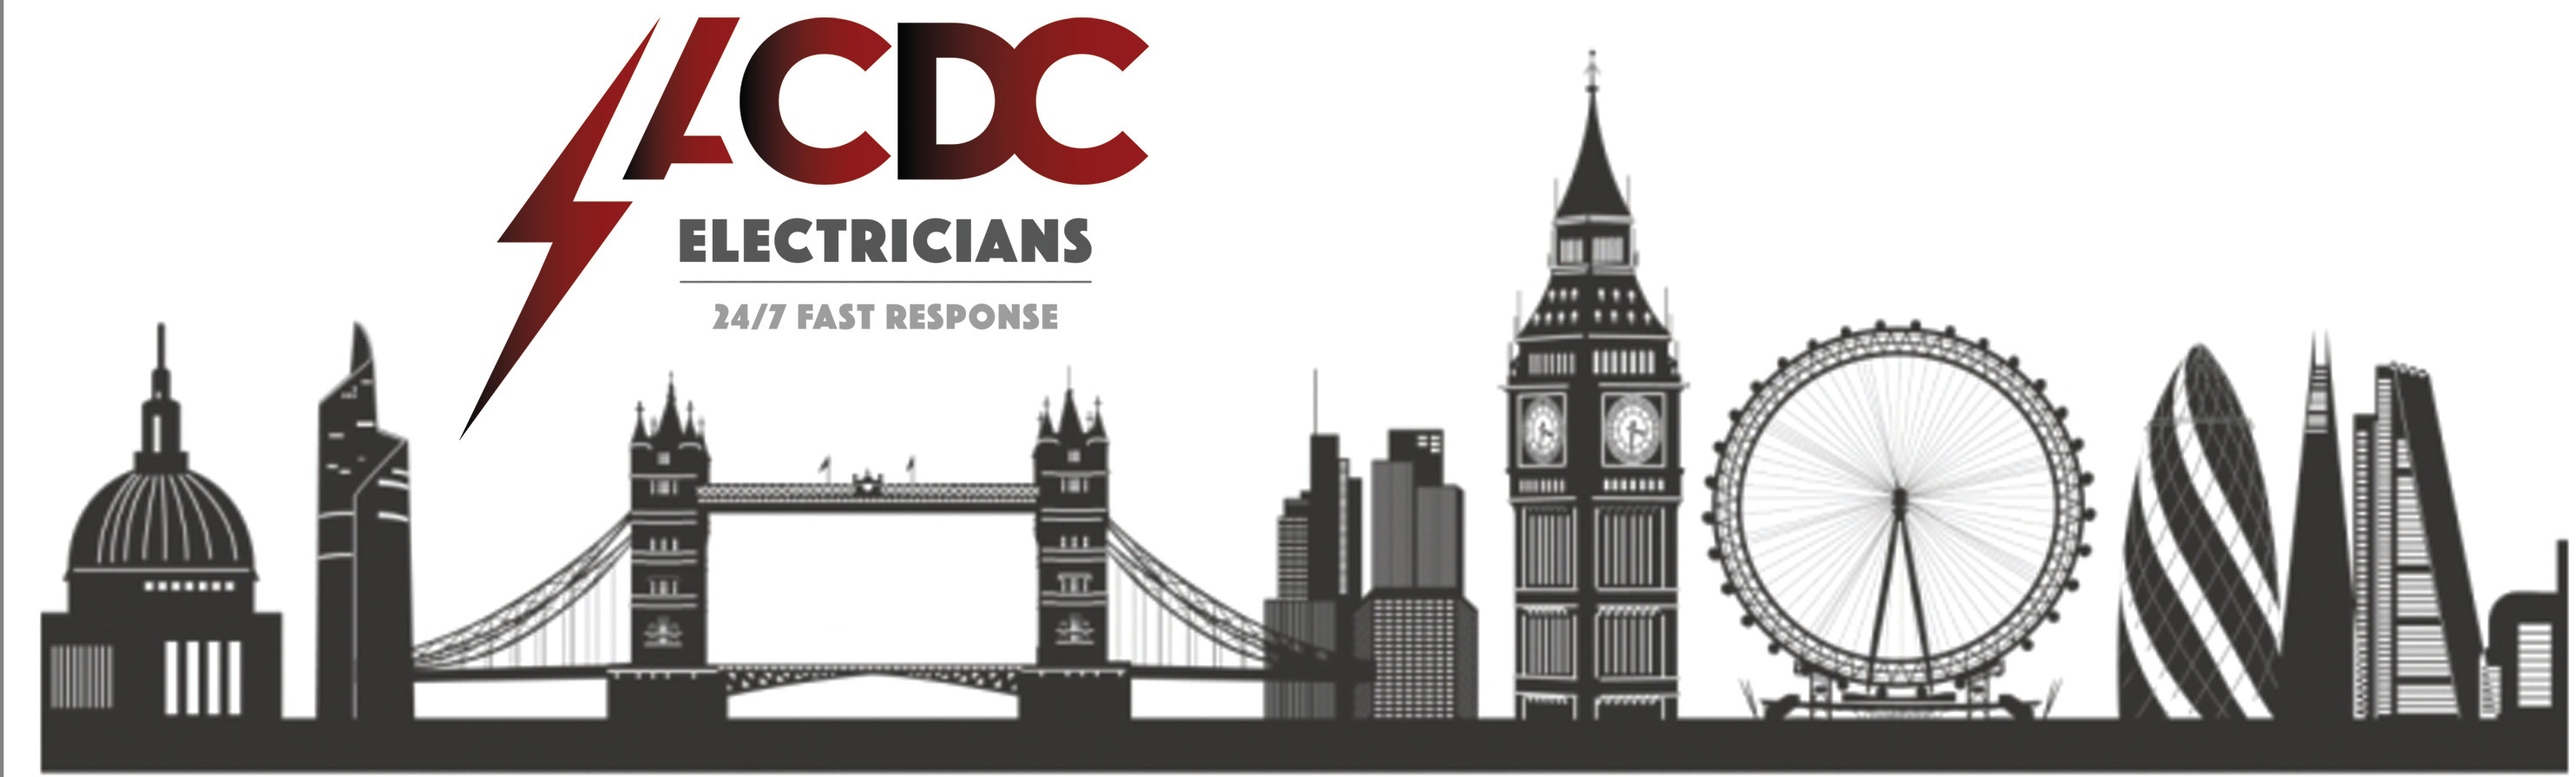
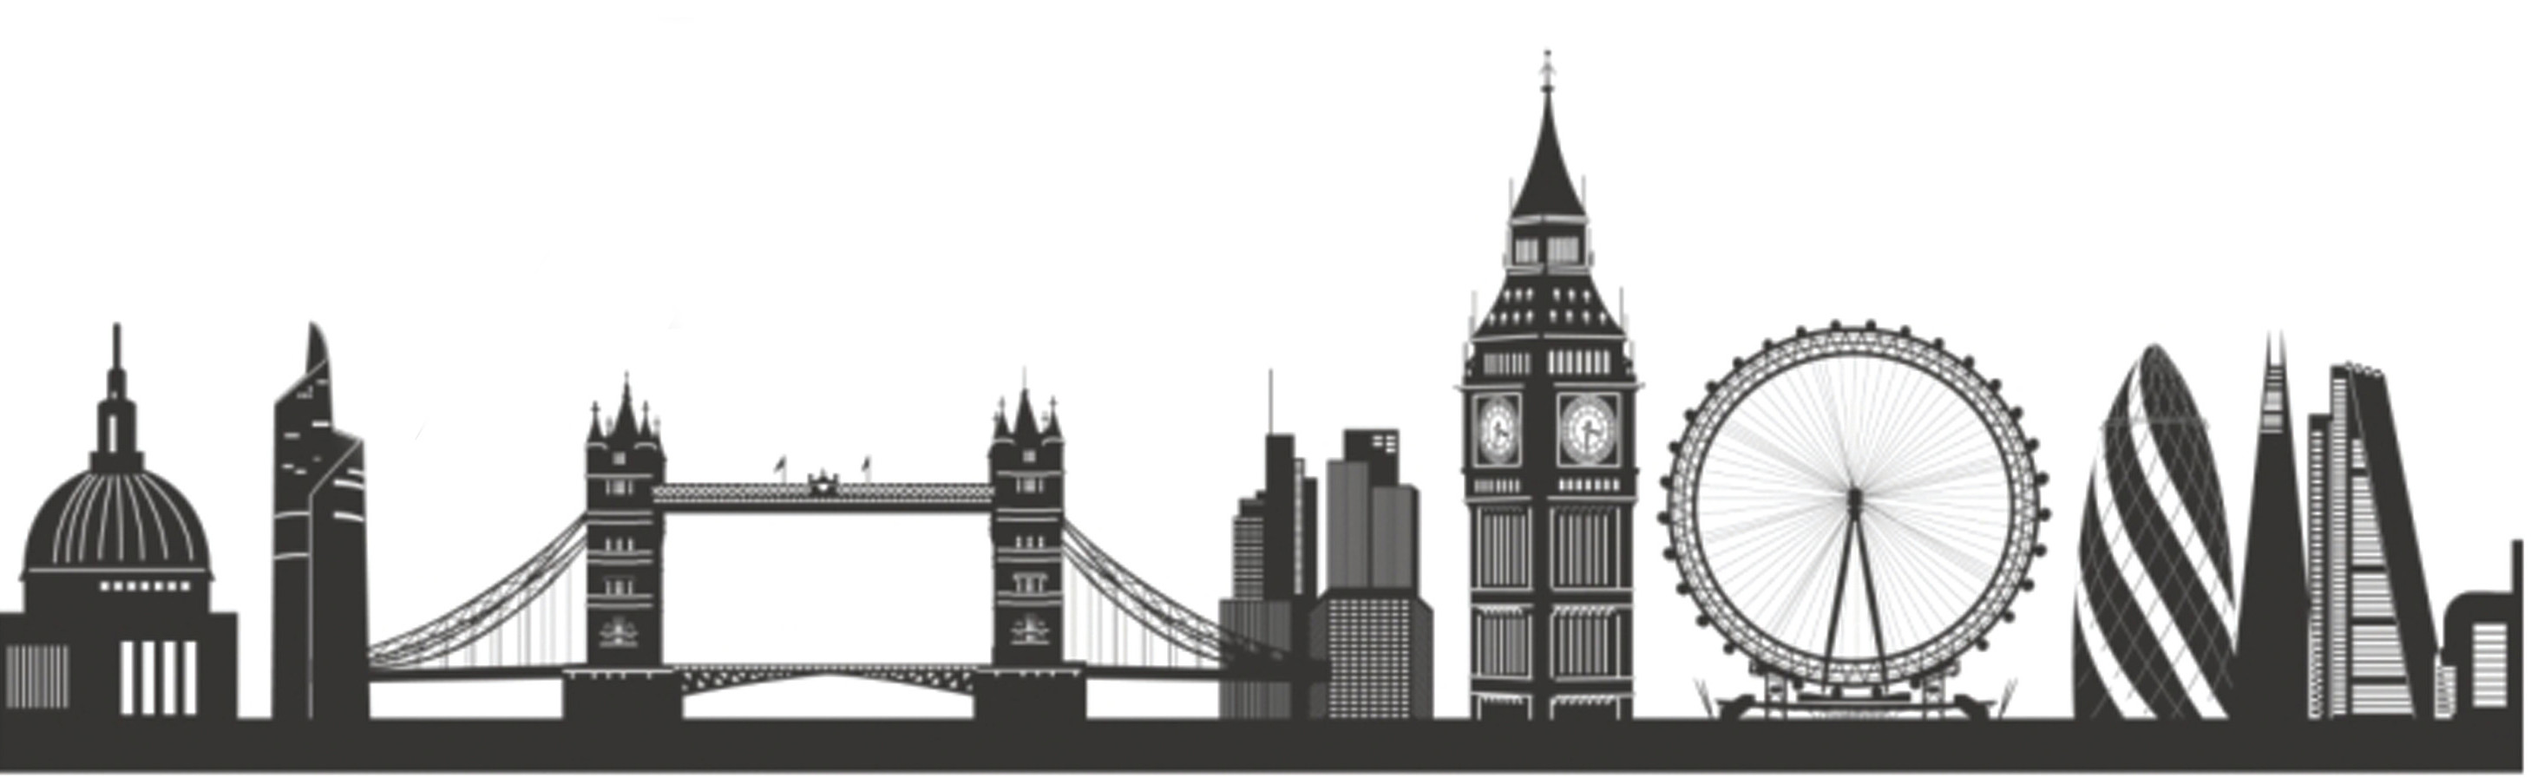
worked on footer

Changed region(s): [[0.0, 0.0625, 0.9671, 1.0], [0.1872, 0.0, 0.4679, 0.5]]

diff --git a/src/components/footer.js b/src/components/footer.js
@@ -1,18 +1,58 @@
 import React from "react"
+import { Link } from "gatsby"
 import styled from "styled-components"
+import CityGuilds from "../images/city_and_guilds_qualified.jpeg"
+import PartP from "../images/part_p_electrical_safety.jpeg"
+import Stroma from "../images/stroma_certified_installer.jpeg"
 
 const StyledFooter = styled.footer`
   background-color: #000000;
-  color: #ffffff;
-  padding: 1.5em;
+  color: #cccccc;
+  font-size: 0.7em;
+  padding: 1.5em 10rem;
+  display: flex;
+  justify-content: space-between;
+  align-items: center;
+`
+
+const ImageWrapper = styled.div`
+  display: flex;
+  align-items: center;
+  img {
+    margin: 0 20px 0 0;
+    height: 50px;
+  }
+  span {
+    margin-right: 20px;
+  }
+`
+
+const StyledLink = styled(Link)`
+  color: #cccccc;
+  font-size: 1em;
+  text-decoration: none;
+  margin-right: 20px;
 `
 
 const Footer = () => {
   return (
     <StyledFooter>
-      © {new Date().getFullYear()}, Built with
-      {` `}
-      <a href="https://www.gatsbyjs.org">Gatsby</a>
+      <span>
+        © {new Date().getFullYear()}
+        {` `}
+        ACDC Electricians
+      </span>
+      <span>Call us now on 0000000000</span>
+      <span>
+        <StyledLink to="/terms">Terms & conditions</StyledLink>
+        <StyledLink to="/privacy-policy">Privacy policy</StyledLink>
+      </span>
+      <ImageWrapper>
+        <span>Industry Accreditations</span>
+        <img src={CityGuilds} alt="City and Guilds qualified" />
+        <img src={PartP} alt="Part P Electrical safety" />
+        <img src={Stroma} alt="Stroma certified installer" />
+      </ImageWrapper>
     </StyledFooter>
   )
 }

diff --git a/src/components/slider.js b/src/components/slider.js
@@ -1,23 +1,22 @@
 import React, { Component } from "react"
 import Slider from "react-slick"
-import Logo from "../images/ACDC_LOGO_RGB-01.png"
-import styled from "styled-components"
-
-const Container = styled.div`
-  background-color: #000000;
-  opacity: 0.8;
-`
+import image1 from "../images/gallery/cetteup-Geh-r9A4RBg-unsplash.jpg"
+import image2 from "../images/gallery/henry-co-3coKbdfnAFg-unsplash.jpg"
+import image3 from "../images/gallery/sergey-zolkin-m9qMoh-scfE-unsplash.jpg"
+import image4 from "../images/gallery/sven-mieke-fteR0e2BzKo-unsplash.jpg"
 
 export default class Carousel extends Component {
   render() {
     return (
-      <Container>
-        <Slider slidesToShow={1}>
-          <img src={Logo} alt="Header" />
-          <img src={Logo} alt="Header" />
-          <img src={Logo} alt="Header" />
-        </Slider>
-      </Container>
+      <Slider slidesToShow={1}>
+        <img src={image1} alt="image1" />
+
+        <img src={image2} alt="image2" />
+
+        <img src={image3} alt="image3" />
+
+        <img src={image4} alt="image4" />
+      </Slider>
     )
   }
 }

diff --git a/src/pages/services.js b/src/pages/services.js
@@ -3,6 +3,8 @@ import React from "react"
 import Layout from "../components/layout"
 
 import SEO from "../components/seo"
+import image1 from "../images/gallery/cetteup-Geh-r9A4RBg-unsplash.jpg"
+import image2 from "../images/gallery/henry-co-3coKbdfnAFg-unsplash.jpg"
 
 const ContactPage = () => (
   <Layout>
@@ -18,8 +20,15 @@ const ContactPage = () => (
       make a type specimen book.
     </p>
     <div style={{ display: "flex", justifyContent: "space-between" }}>
-      <h2>Electrical services</h2>
-      <h2>Property maintenance</h2>
+      <div style={{ width: "48%" }}>
+        <h2>Electrical services</h2>
+        <img src={image1} alt="image1" />
+      </div>
+
+      <div style={{ width: "48%" }}>
+        <h2>Property maintenance</h2>
+        <img src={image2} alt="image2" />
+      </div>
     </div>
   </Layout>
 )

diff --git a/src/components/header.js b/src/components/header.js
@@ -1,6 +1,6 @@
 import PropTypes from "prop-types"
 import React from "react"
-import Logo from "../images/ACDC_LOGO_RGB-01.png"
+import HeaderImage from "../images/header.jpg"
 import Skyline from "../images/skyline.jpg"
 
 const Header = ({ siteTitle }) => (
@@ -17,11 +17,8 @@ const Header = ({ siteTitle }) => (
         display: `flex`,
       }}
     >
-      <div style={{ width: "30%" }}>
-        <img src={Logo} alt="Header" />
-      </div>
-      <div style={{ width: "70%" }}>
-        <img src={Skyline} alt="Skyline" />
+      <div style={{ width: "100%" }}>
+        <img src={HeaderImage} alt="Header" style={{ marginBottom: "0" }} />
       </div>
     </div>
   </header>

diff --git a/src/components/menu.js b/src/components/menu.js
@@ -9,6 +9,8 @@ const StyledLink = styled(Link)`
   transition: background-color 0.5s ease-out, color 0.5s ease-out;
   background-color: #ffffff;
   color: #000000;
+  font-weight: bold;
+  text-transform: uppercase;
   &:hover {
     color: #ffffff;
     background-color: #000000;
@@ -22,8 +24,8 @@ const MenuContainer = styled.div`
   margin: 0;
   background-color: #ffffff;
   cursor: pointer;
-  border-top: 1px solid #000000;
-  border-bottom: 1px solid #000000;
+  border-top: 4px solid #000000;
+  border-bottom: 4px solid #000000;
 `
 
 const activeStyle = {

diff --git a/src/components/Form/form.js b/src/components/Form/form.js
@@ -94,13 +94,6 @@ class ContactForm extends React.Component {
               <button type="submit" disabled={submitting}>
                 Send
               </button>
-              <button
-                type="button"
-                onClick={form.reset}
-                disabled={submitting || pristine}
-              >
-                Reset
-              </button>
             </div>
           </form>
         )}
